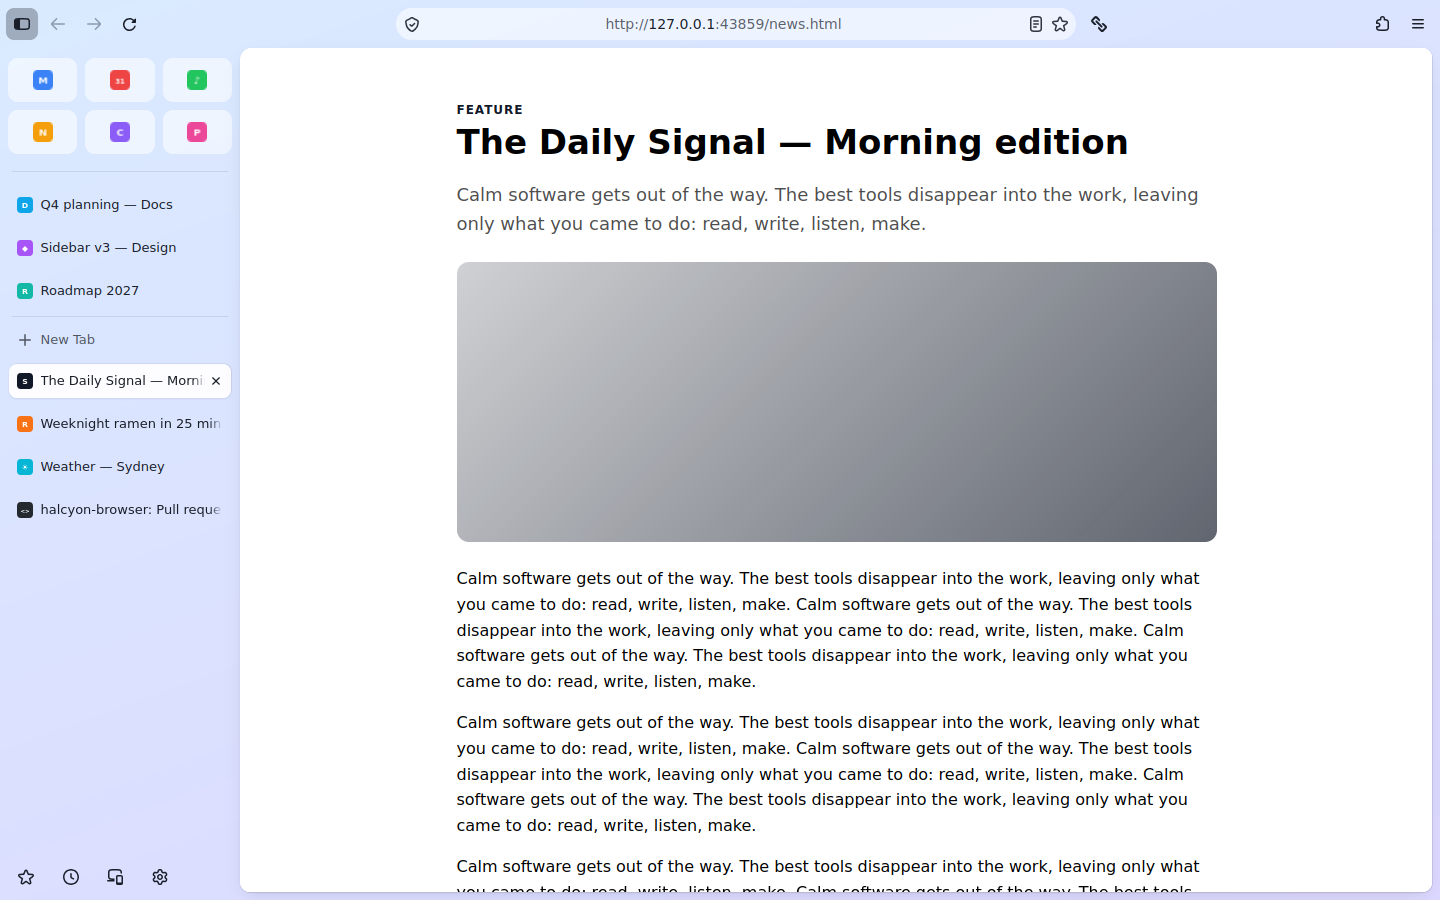
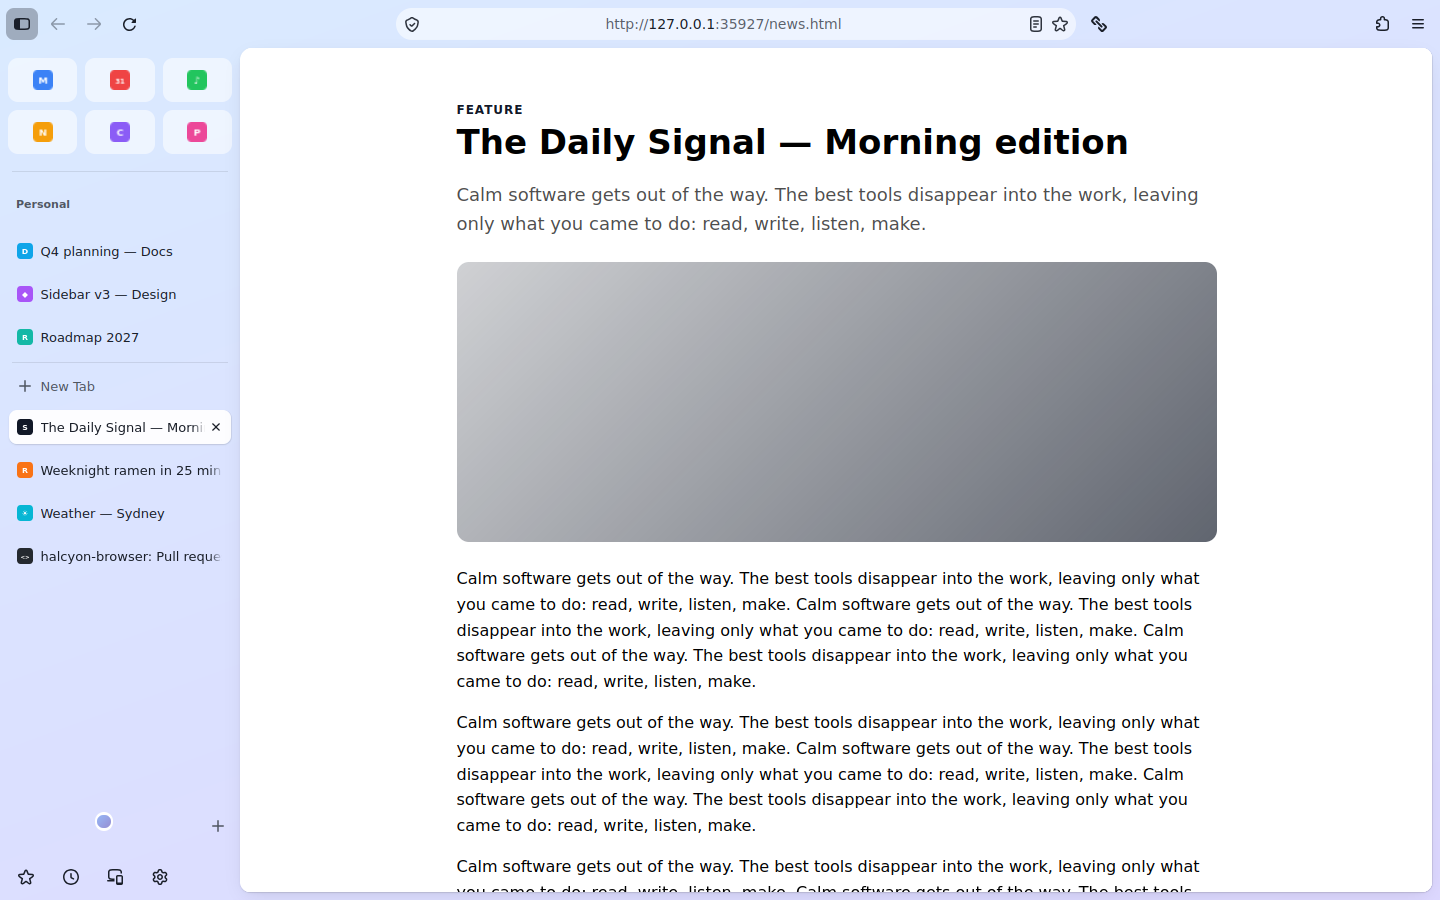
C4 docs: SPACES.md, README, layout follow-ups
Claude-Session: https://claude.ai/code/session_012Vkjsm4TEHrDD55EKLAzDL

diff --git a/docs/SPACES.md b/docs/SPACES.md
@@ -1,0 +1,82 @@
+# Spaces
+
+A Space is a named set of tabs with its own colour, its own Pinned tabs and, if you like, its
+own container. Work, Personal, a project: each gets a Space, and switching is instant.
+
+![The Work Space: green backdrop, its name above its Pinned tab, Space dots at the bottom](images/spaces-work.png)
+
+## Using Spaces
+
+| To | Do |
+| --- | --- |
+| Switch Space | Click a dot at the bottom of the sidebar, swipe sideways on the sidebar, or **Ctrl+Alt+←/→** (Cmd+Option on macOS). **Ctrl+Alt+1…9** jumps straight to a Space. |
+| Make a Space | The **+** next to the dots. The editor opens so you can name it. |
+| Edit a Space | Click its name above the Pinned tabs, or right-click its dot. |
+| Move tabs to another Space | Right-click a tab > **Move to Space**. Moving the tab you're on takes you with it. |
+| Delete a Space | In the editor, **Delete Space**, then click again to confirm. Its tabs move to the Space before it. |
+
+What belongs where:
+
+* **Essentials** (the tiles at the top) are shared by every Space.
+* **Pinned tabs and Today tabs** belong to one Space. Switching shows that Space's tabs and goes
+  back to the tab you used last there.
+* Closing a Space's last tab gives you a fresh tab in the same Space.
+* **Private windows** don't have Spaces.
+
+![The Space editor: name, icon, colour wheel, intensity, blend, grain, container](images/spaces-editor.png)
+
+## The editor
+
+| Setting | Effect |
+| --- | --- |
+| Name and icon | Shown above the Pinned tabs and on the Space's dot. Any emoji or letter works. |
+| Colour | Pick a hue on the wheel or a preset. The whole window takes it on: backdrop, top bar and sidebar, in light and dark mode. |
+| Intensity | How strong the colour is. |
+| Blend | How far the gradient's second colour moves around the wheel from the first. |
+| Grain | A subtle film-grain texture over the backdrop. |
+| Container | New tabs in this Space open in that container, with separate cookies and logins (a Work account here, a personal one elsewhere). Pick an existing container, or let the Space make one with its name. |
+
+## Sync
+
+When you sign in to a Mozilla account and keep **Settings** syncing, your Spaces (names, icons,
+colours, containers), Pinned tabs and Essentials appear on your other devices, end-to-end
+encrypted like the rest of Firefox Sync. On another device:
+
+* a synced Pinned tab or Essential that isn't open there yet opens unloaded (it loads when you
+  click it), in the most recently used window;
+* one you unpin or close elsewhere stops being pinned here; the tab itself stays open;
+* containers are matched by name, and created on that device if they don't exist yet.
+
+**The first time a second device syncs, it takes the Spaces already in your account.** Its own
+Spaces are replaced, its tabs move into the first Space, and any of its pinned tabs that aren't
+in the account are unpinned (they stay open). Edits made on two devices at the same moment: the
+later one wins.
+
+Under the hood the data is one preference, `halcyon.spaces`, which Firefox Sync's preferences
+engine carries because `services.sync.prefs.sync.halcyon.spaces` is on. Turn that off to keep
+Spaces on this device only.
+
+## How it's built
+
+| Piece | File (in `src/browser/components/halcyon/spaces/`) |
+| --- | --- |
+| Data model: validation, edits, colours, launcher reconciliation (pure, unit-tested) | `HalcyonSpacesLogic.sys.mjs` |
+| The shared copy, saved in the synced pref; containers | `HalcyonSpacesStore.sys.mjs` |
+| One window: membership, switching, new tabs, shortcuts, swipe, launchers | `HalcyonSpaces.sys.mjs` |
+| Space name, switcher, editor, Move to Space | `HalcyonSpacesUI.sys.mjs` |
+| Styling and the switch animation | `halcyon-spaces.css` |
+
+Hiding other Spaces' tabs uses Firefox's own tab hiding (the mechanism tab-group extensions
+use), so hidden tabs keep running, stay in session restore, and come back without reloading.
+Like the rest of the layout, Spaces cost **no patches to Firefox's files**.
+
+## How it's checked
+
+* 19 unit tests on the data model, the store and a window controller against a fake tab strip.
+* The UI preview runs Spaces in the official Firefox 158.0.1 and checks: only the active Space's
+  tabs show; its name, colour and Pinned launcher; Ctrl+Alt+→ and Ctrl+Alt+1; closing a Space's
+  last tab; and another device's changes arriving the way Firefox Sync applies them (a new Space
+  and a new Essential appear, the Essential opening unloaded).
+
+A real two-account Sync round trip needs a signed-in build, so it is next on the list now that
+installers are being built.

diff --git a/README.md b/README.md
@@ -11,8 +11,9 @@ it. See [docs/OWNERSHIP.md](docs/OWNERSHIP.md) for the eight release-blocking pr
 ## Status
 
 Phase 1 (Foundation) done: **C0 build pipeline**, **C1 privacy baseline**, **C2 Shield**.
-Phase 2 (Core experience): **C3 Arc-style layout** done and checked in the official Firefox
-158.0.1 (see below). Builds resume next, then C4 (Spaces).
+Phase 2 (Core experience): **C3 Arc-style layout** and **C4 Spaces** done, checked in the
+official Firefox 158.0.1 (see below). Test installers are on the **test-build** pre-release.
+Next: C5, the command bar.
 
 ![Halcyon: Essentials, Pinned and Today in the sidebar; the page as a card](docs/images/layout-light.png)
 
@@ -24,6 +25,7 @@ Phase 2 (Core experience): **C3 Arc-style layout** done and checked in the offic
 | Shield | uBlock Origin's default lists in Firefox's in-tree adblock-rust engine: network blocking and element hiding, ~11 µs per request. See [docs/SHIELD.md](docs/SHIELD.md) |
 | Performance budgets | checked in CI: [docs/PERFORMANCE.md](docs/PERFORMANCE.md) |
 | Layout | Arc-style: Essentials grid, Pinned and Today, centred address, page as a card, rail, compact mode (Ctrl+Alt+C). Built on Firefox's own vertical tabs with no patches. See [docs/LAYOUT.md](docs/LAYOUT.md) |
+| Spaces | Named Spaces with their own colour, icon, Pinned tabs and optional container; switch by dot, swipe or Ctrl+Alt+arrows; synced with Firefox Sync. See [docs/SPACES.md](docs/SPACES.md) |
 | UI preview | CI loads our layout into stock Firefox 158.0.1, screenshots every state and checks behaviour in the real browser (`ui-previews` branch) |
 | Compiled out | telemetry upload, Normandy experiments, crash reporter, Mozilla updater, Windows default-browser agent |
 | Every-request registry | `privacy/requests.toml` → [docs/EVERY-REQUEST.md](docs/EVERY-REQUEST.md) |
@@ -31,14 +33,14 @@ Phase 2 (Core experience): **C3 Arc-style layout** done and checked in the offic
 | Updates | notification-only update check against GitHub Releases; never auto-installs |
 | Windows installer | `hx package` on Windows → `*.installer.exe` (built by the `build` workflow) |
 | Patches to Firefox | 7 of a 60-file budget ([docs/PATCHES.md](docs/PATCHES.md)) |
-| CI | tests on 3 OSes, upstream checks, Shield corpus and budgets, twice-daily rebase bot; 3-OS builds, network audit and releases (paused until after C3) |
+| CI | tests on 3 OSes, upstream checks, Shield corpus and budgets, UI preview, twice-daily rebase bot; Windows and Linux builds, network audit, test-build pre-release, releases on `v*` tags |
 
-Next: resume builds (fix the stalled bootstrap, Windows installer), then C4: Spaces.
+Next: C5, the command bar (Rust index over tabs, history, bookmarks, settings and actions).
 
 ## Get the browser
 
-Builds are paused until after C3, so there is no installer yet. Once they resume: download the
-Windows installer from the latest successful **build** run (Actions tab →
+Download the Windows installer from the **test-build** pre-release on the Releases page (or
+from the latest successful **build** run (Actions tab →
 build → `windows-installer-dev`), or from **Releases** once a version is tagged. The build is not
 code-signed yet, so Windows SmartScreen will warn: choose *More info → Run anyway*.
 

diff --git a/docs/LAYOUT.md b/docs/LAYOUT.md
@@ -82,9 +82,8 @@ Screenshots are published to the `ui-previews` branch on every change.
 
 | Item | Plan |
 | --- | --- |
-| Space name above Pinned, Space dots and archive in the bottom row | C4 (Spaces) |
-| Per-Space colours (the tokens are ready for it) | C4 |
-| Arc's "pinned tab resets to its URL when closed" | C4, with Spaces |
+| Archive button in the bottom row | With auto-archive (C8) |
+| Arc's "pinned tab resets to its URL when closed" | Later; Pinned tabs are synced launchers already ([SPACES.md](SPACES.md)) |
 | Command bar on Ctrl/Cmd+T and Ctrl/Cmd+L | C5 |
 | Localised strings (menu labels are English-only) | With the browser's own localisation files |
 | Frame-time measurement of the motion | When builds resume (Xvfb in CI renders in software, so its timings mean little) |
